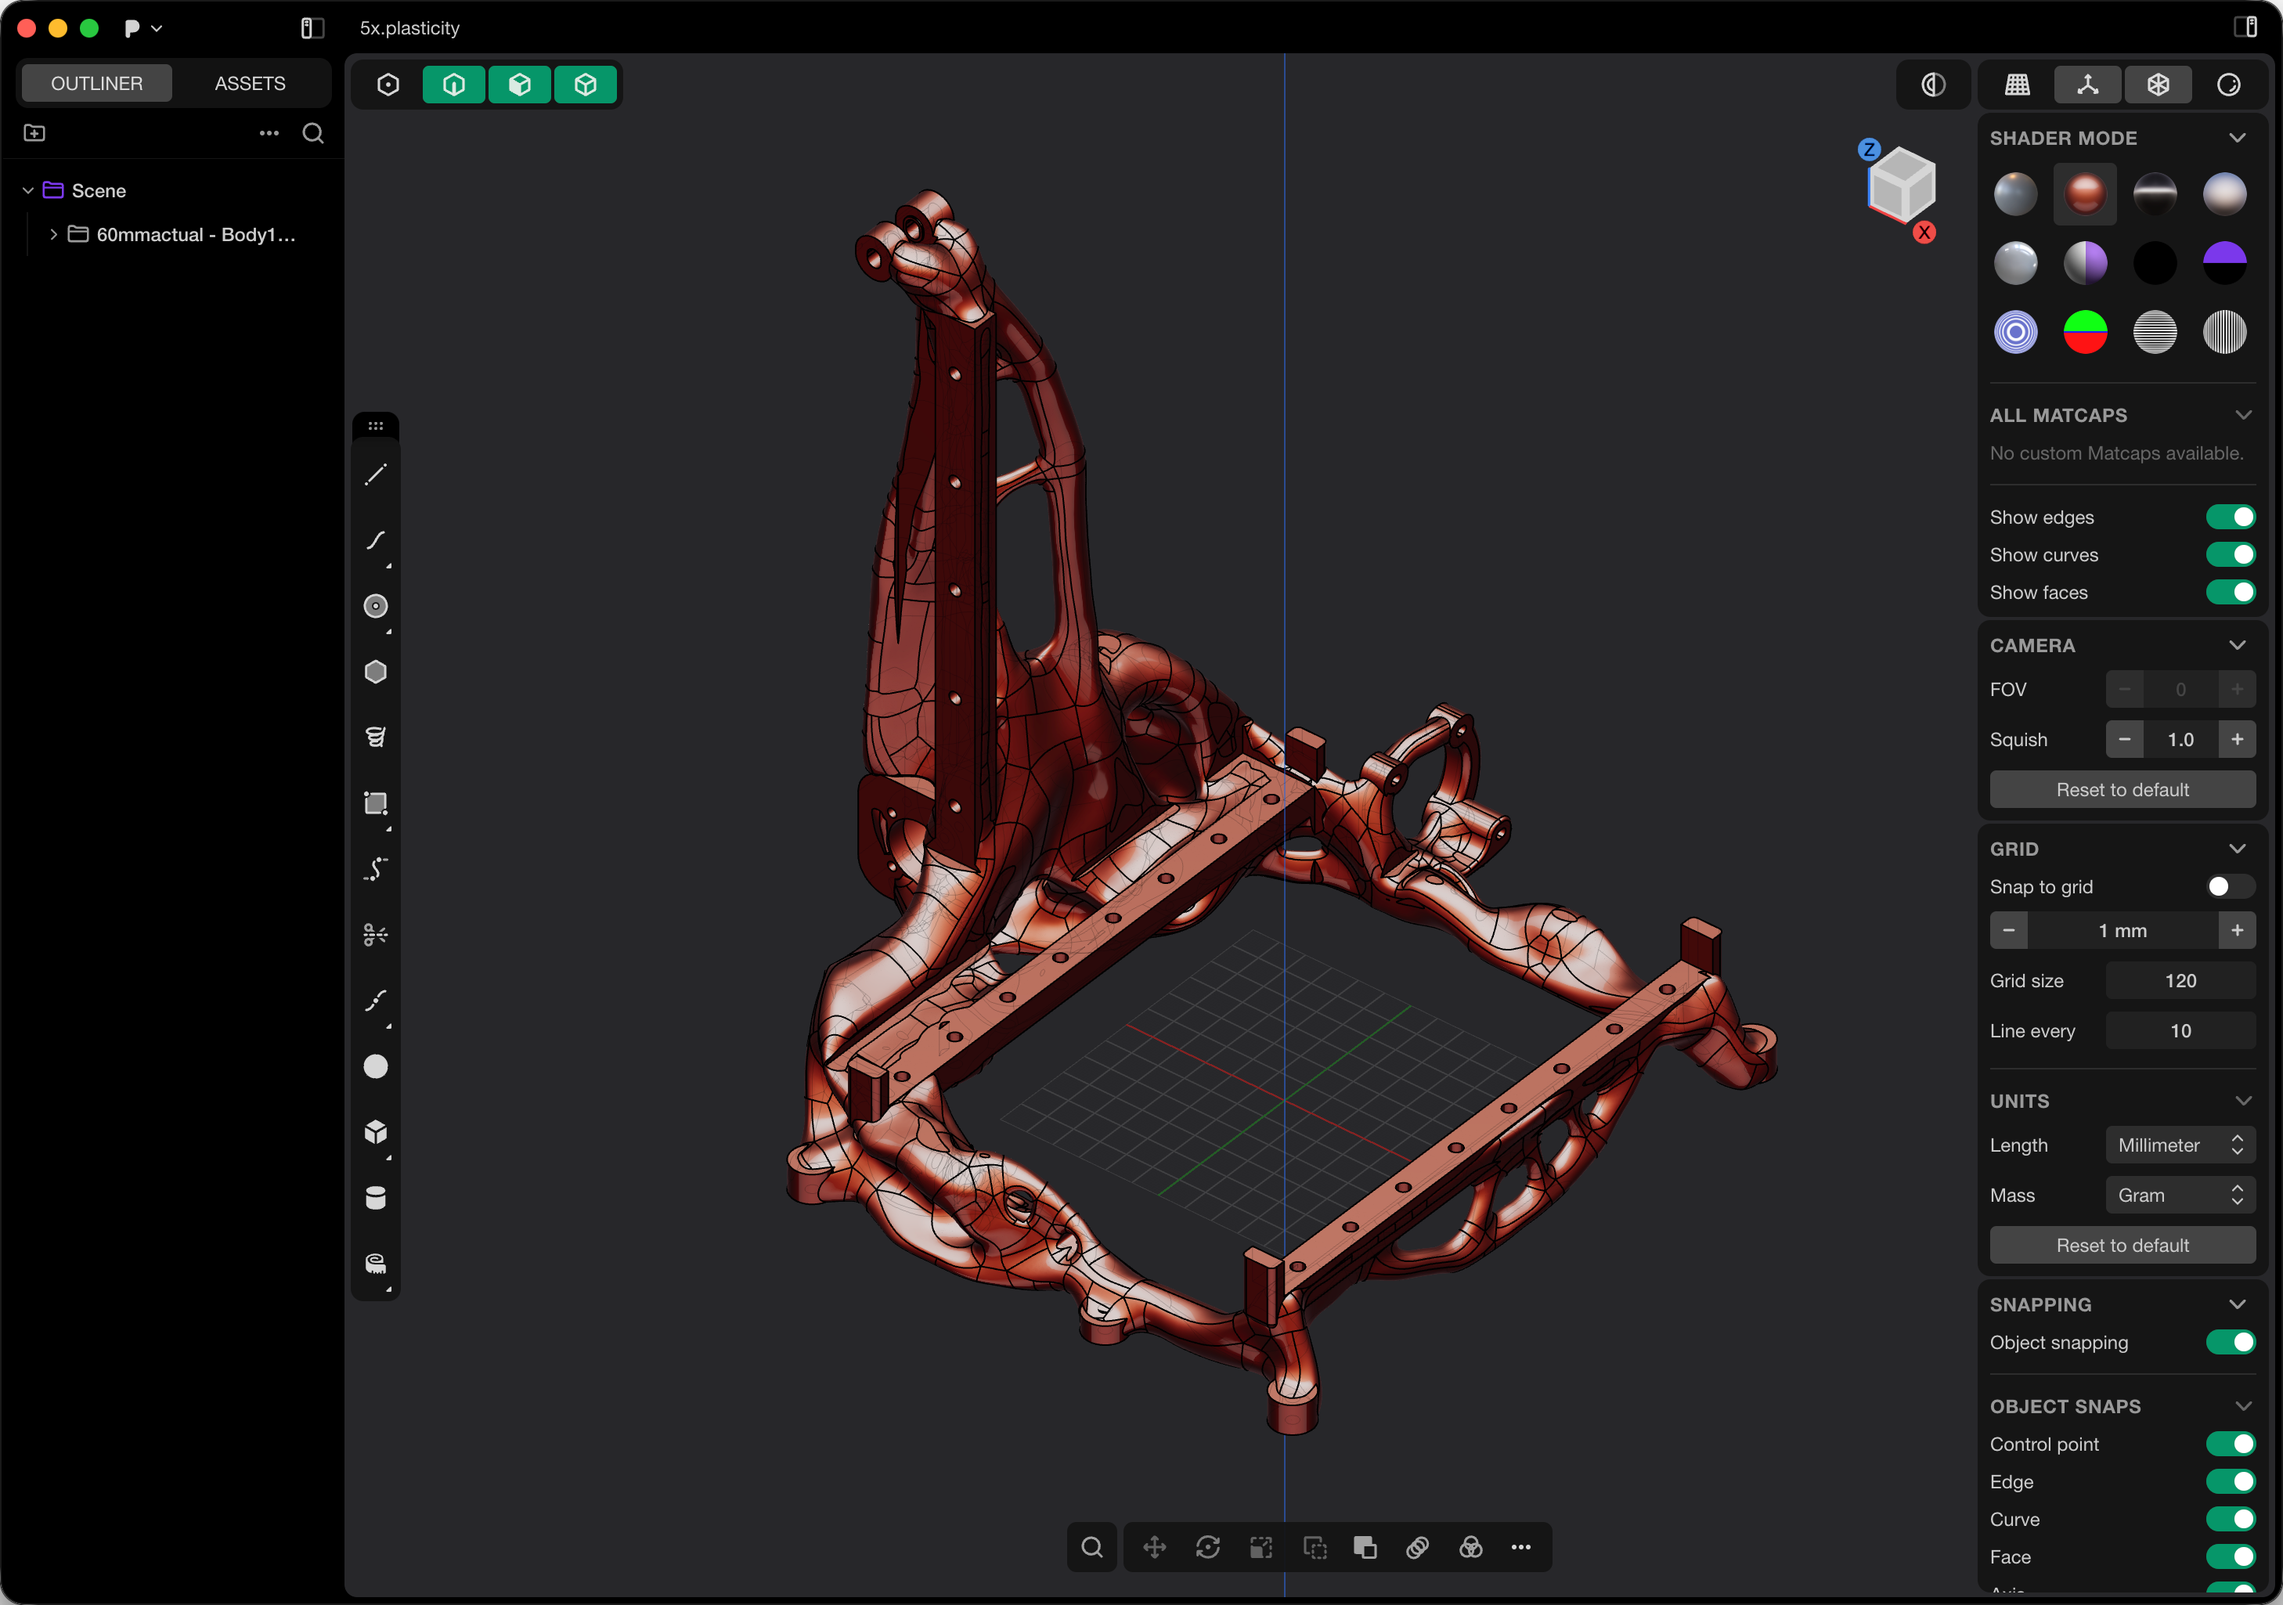
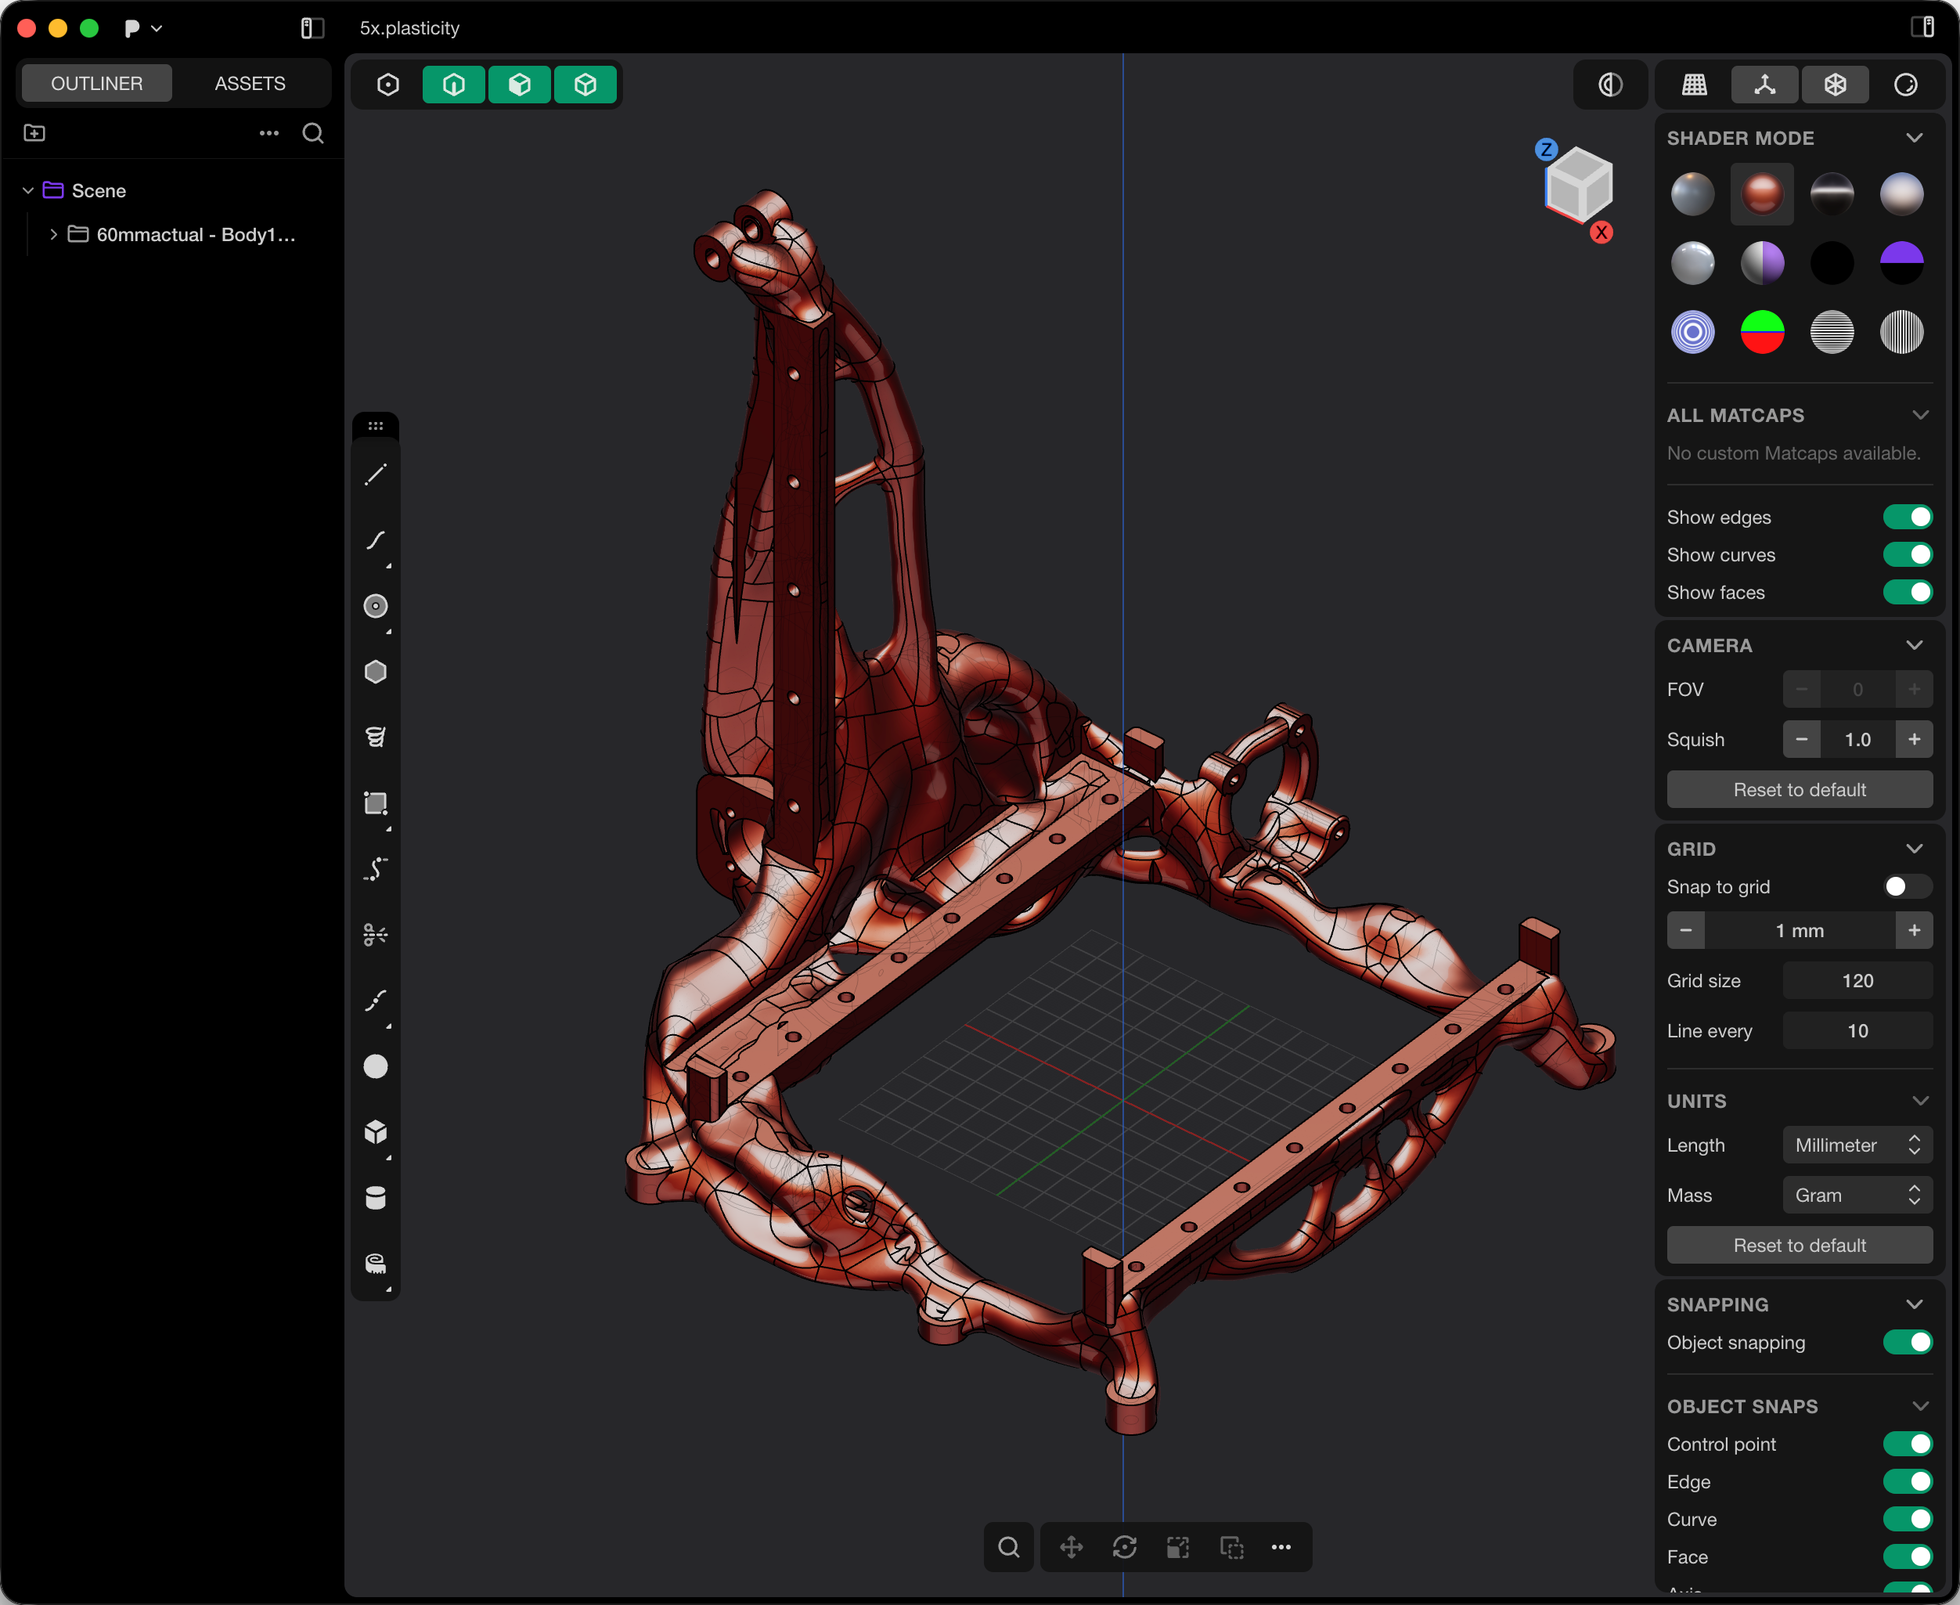
Fit matched Helium and Plasticity captures with additive tab chrome

diff --git a/Sources/AppBundle/ui/marketing/WinMuxMarketingRenderer.swift b/Sources/AppBundle/ui/marketing/WinMuxMarketingRenderer.swift
@@ -185,18 +185,24 @@ private struct WinMuxSafariPlasticityProofCanvas: View {
     private let sidebarTopMargin: CGFloat = 12
     private let gutter: CGFloat = 8
     // Expansion overlays the tiles; only the collapsed rail reserves layout space.
-    private var safariAspect: CGFloat { captureAspect("safari-current-retina.png") }
+    private var safariAspect: CGFloat { captureAspect("helium-current-retina.png") }
     private var plasticityAspect: CGFloat { captureAspect("plasticity-current-retina.png") }
     private var contentHeight: CGFloat {
-        (1_600 - reservedSidebarWidth - 3 * gutter - 4 * windowTabGroupShellHorizontalInset())
-            / (safariAspect + plasticityAspect)
+        min(
+            (1_600 - reservedSidebarWidth - 3 * gutter - 4 * windowTabGroupShellHorizontalInset())
+                / (safariAspect + plasticityAspect),
+            900 - topMargin - gutter - chromeHeight
+        )
     }
     private var safariWidth: CGFloat { contentHeight * safariAspect + 2 * windowTabGroupShellHorizontalInset() }
     private var plasticityWidth: CGFloat { contentHeight * plasticityAspect + 2 * windowTabGroupShellHorizontalInset() }
-    private var tileHeight: CGFloat {
-        contentHeight + MarketingFixtures.plasticityTabStrip.frame.height
+    private var chromeHeight: CGFloat {
+        MarketingFixtures.plasticityTabStrip.frame.height
             + windowTabGroupShellTopInset() + windowTabGroupShellBottomInset()
     }
+    private var tileHeight: CGFloat { contentHeight + chromeHeight }
+    // Keep the right and inter-window gaps fixed. Extra space stays beneath the sidebar.
+    private var tilesLeading: CGFloat { 1_600 - 2 * gutter - safariWidth - plasticityWidth }
 
     private func captureAspect(_ name: String) -> CGFloat {
         guard let image = MarketingAsset.image(named: name) else {
@@ -220,13 +226,13 @@ private struct WinMuxSafariPlasticityProofCanvas: View {
 
             MarketingCapturedTabWindow(
                 strip: MarketingFixtures.safariCurrentTabStrip,
-                imageName: "safari-current-retina.png",
+                imageName: "helium-current-retina.png",
                 contentMode: .fit,
                 imageAlignment: .top,
                 shadowOpacity: 0
             )
             .frame(width: safariWidth, height: tileHeight)
-            .offset(x: reservedSidebarWidth + gutter, y: topMargin)
+            .offset(x: tilesLeading, y: topMargin)
 
             MarketingCapturedTabWindow(
                 strip: MarketingFixtures.plasticityTabStrip,
@@ -236,7 +242,7 @@ private struct WinMuxSafariPlasticityProofCanvas: View {
                 shadowOpacity: 0
             )
             .frame(width: plasticityWidth, height: tileHeight)
-            .offset(x: reservedSidebarWidth + 2 * gutter + safariWidth, y: topMargin)
+            .offset(x: tilesLeading + gutter + safariWidth, y: topMargin)
 
         }
         .frame(width: 1_600, height: 900)
@@ -1026,8 +1032,8 @@ private enum MarketingFixtures {
                         windowCount: 2,
                         isFocused: false,
                         tabs: [
-                            sidebarWindow(104, workspace: "code", app: "Safari", bundle: "com.apple.Safari", title: "alpaca engineering"),
-                            sidebarWindow(105, workspace: "code", app: "Google Chrome", bundle: "com.google.Chrome", title: "Chrome"),
+                            sidebarWindow(104, workspace: "code", app: "Helium", bundle: "net.imput.helium", title: "alpaca engineering"),
+                            sidebarWindow(105, workspace: "code", app: "Safari", bundle: "com.apple.Safari", title: "Safari"),
                         ]
                     ))),
                 ]
@@ -1123,19 +1129,19 @@ private enum MarketingFixtures {
             tab(
                 601,
                 workspace: "design",
-                app: "Safari",
-                bundle: "com.apple.Safari",
-                path: "/Applications/Safari.app",
+                app: "Helium",
+                bundle: "net.imput.helium",
+                path: "/Applications/Helium.app",
                 title: "alpaca engineering",
                 active: true
             ),
             tab(
                 602,
                 workspace: "design",
-                app: "Google Chrome",
-                bundle: "com.google.Chrome",
-                path: "/Applications/Google Chrome.app",
-                title: "Chrome"
+                app: "Safari",
+                bundle: "com.apple.Safari",
+                path: "/Applications/Safari.app",
+                title: "Safari"
             ),
         ],
         cornerRadius: 14
